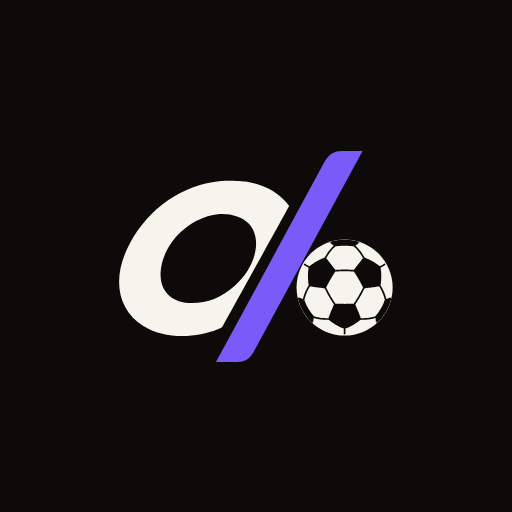
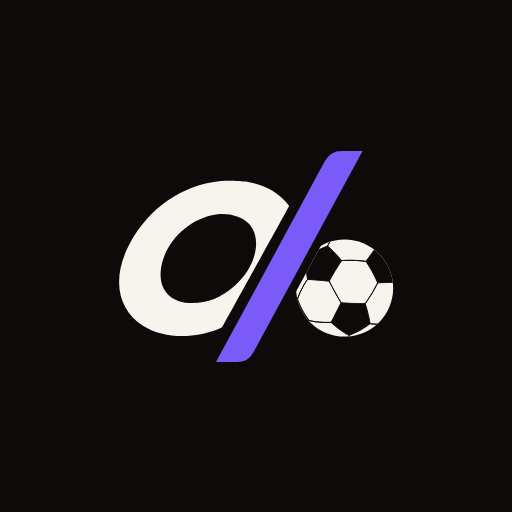
The ball as drawn: cut by the channel, panels where the drawing has them
Checked against the owner's drawing, the ball was wrong in two ways:
- It is not a full circle. The bar's dark channel cuts it in a straight
  line on its upper-left, parallel to the bar, just as it cuts the O. The
  cut now matches the drawing to the pixel at every height measured.
- The pattern was turned and too small. Rotation fitted to the drawing's
  panel positions (centre hexagon up and right of centre; panels
  upper-left, upper-right, bottom), panels at the drawing's size, and
  hairline seams that run to the edge.

The drawing's panels are transparent (alpha ~43/255), so they are drawn
in the ground colour, as holes. Regenerated every icon, the Google logo,
the footer mark and the link preview.

Changed region(s): [[0.5625, 0.4688, 0.7812, 0.6562]]

diff --git a/public/index.html b/public/index.html
@@ -172,7 +172,7 @@
       </div>
     </div>
     <div class="foot-brand">
-      <svg class="brand-symbol" viewBox="480 288 578 462" aria-hidden="true"><clipPath id="footc"><circle cx="946" cy="582" r="96"/></clipPath> <path d="M 699 368.969 C 622.149 376.503, 554.702 422.767, 516.720 494 C 480.503 561.921, 490.986 625.681, 543.799 658.704 C 582.904 683.156, 643.733 685.647, 693.718 664.844 C 700.296 662.106, 701.188 661.381, 703.774 656.670 C 705.335 653.826, 715.862 634.850, 727.168 614.500 C 738.475 594.150, 752.685 568.500, 758.748 557.500 C 772.399 532.732, 802.995 477.400, 815.977 454 C 821.317 444.375, 827.830 432.542, 830.449 427.704 L 835.212 418.908 829.308 411.704 C 812.558 391.265, 784.245 376.389, 751 370.558 C 739.966 368.623, 711.424 367.751, 699 368.969 M 689.303 435.990 C 632.321 444.052, 581.689 496.517, 578.412 550.896 C 576.120 588.928, 600.593 613, 641.549 613 C 672.131 613, 699.727 601.820, 726.044 578.770 C 769.671 540.559, 782.539 482.354, 753.729 453.544 C 739.739 439.554, 713.892 432.512, 689.303 435.990 " style="fill:var(--chalk)" fill-rule="evenodd"/> <path d="M 939.7 309.0 L 981.9 309.0 L 763.6 711.7 Q 753.1 731.0 731.1 731.0 L 688.9 731.0 L 907.2 328.3 Q 917.7 309.0 939.7 309.0 Z" style="fill:var(--floodlight)"/> <circle cx="946" cy="582" r="96" style="fill:var(--chalk)"/><polygon points="946.0,551.4 978.9,575.3 966.3,614.0 925.7,614.0 913.1,575.3" style="fill:var(--stand)"/></svg>
+      <svg class="brand-symbol" viewBox="480 288 578 462" aria-hidden="true"><clipPath id="footc"><circle cx="946" cy="583" r="97"/></clipPath><clipPath id="footk"><polygon points="916.3,466 1083,466 1083,700 789.4,700"/></clipPath> <path d="M 699 368.969 C 622.149 376.503, 554.702 422.767, 516.720 494 C 480.503 561.921, 490.986 625.681, 543.799 658.704 C 582.904 683.156, 643.733 685.647, 693.718 664.844 C 700.296 662.106, 701.188 661.381, 703.774 656.670 C 705.335 653.826, 715.862 634.850, 727.168 614.500 C 738.475 594.150, 752.685 568.500, 758.748 557.500 C 772.399 532.732, 802.995 477.400, 815.977 454 C 821.317 444.375, 827.830 432.542, 830.449 427.704 L 835.212 418.908 829.308 411.704 C 812.558 391.265, 784.245 376.389, 751 370.558 C 739.966 368.623, 711.424 367.751, 699 368.969 M 689.303 435.990 C 632.321 444.052, 581.689 496.517, 578.412 550.896 C 576.120 588.928, 600.593 613, 641.549 613 C 672.131 613, 699.727 601.820, 726.044 578.770 C 769.671 540.559, 782.539 482.354, 753.729 453.544 C 739.739 439.554, 713.892 432.512, 689.303 435.990 " style="fill:var(--chalk)" fill-rule="evenodd"/> <path d="M 939.7 309.0 L 981.9 309.0 L 763.6 711.7 Q 753.1 731.0 731.1 731.0 L 688.9 731.0 L 907.2 328.3 Q 917.7 309.0 939.7 309.0 Z" style="fill:var(--floodlight)"/> <g clip-path="url(#footk)"><circle cx="946" cy="583" r="97" style="fill:var(--chalk)"/><g clip-path="url(#footc)"><path d="M 1044.6 528.1 L 1040.9 524.3 L 1037.0 520.7 L 1032.8 517.1 L 1028.3 513.7 L 1023.6 510.5 L 1018.7 507.5 L 1013.7 504.7 L 1008.6 502.2 L 1006.7 504.9 L 1004.5 507.9 L 1002.2 511.1 L 999.7 514.5 L 997.0 518.1 L 994.3 521.9 L 991.4 525.7 L 988.5 529.7 L 991.8 534.6 L 995.1 539.8 L 998.3 545.1 L 1001.4 550.5 L 1004.3 556.0 L 1007.0 561.6 L 1009.6 567.1 L 1012.0 572.6 L 1016.9 572.4 L 1021.8 572.2 L 1026.5 572.0 L 1031.1 571.9 L 1035.4 571.8 L 1039.4 571.7 L 1043.2 571.7 L 1046.6 571.6 L 1047.3 566.0 L 1047.7 560.4 L 1047.8 554.8 L 1047.7 549.2 L 1047.3 543.7 L 1046.6 538.3 L 1045.7 533.1 Z M 871.9 565.7 L 876.7 566.0 L 881.8 566.4 L 887.1 566.8 L 892.5 567.2 L 898.1 567.7 L 903.9 568.2 L 909.6 568.8 L 915.4 569.3 L 918.2 564.0 L 921.2 558.6 L 924.3 553.3 L 927.4 548.0 L 930.6 542.8 L 933.8 537.7 L 937.0 532.8 L 940.2 528.1 L 936.6 523.9 L 933.0 519.8 L 929.3 515.8 L 925.7 512.0 L 922.1 508.4 L 918.7 505.0 L 915.3 501.8 L 912.0 498.9 L 906.4 501.1 L 900.8 503.5 L 895.2 506.2 L 889.8 509.0 L 884.5 512.1 L 879.4 515.3 L 874.5 518.7 L 869.8 522.2 L 869.4 527.1 L 869.2 532.3 L 869.1 537.6 L 869.3 543.1 L 869.6 548.7 L 870.2 554.4 L 871.0 560.1 Z M 954.8 677.5 L 960.2 675.4 L 965.6 673.0 L 971.1 670.4 L 976.5 667.6 L 981.9 664.5 L 987.1 661.2 L 992.1 657.8 L 997.0 654.2 L 996.2 649.8 L 995.3 645.1 L 994.2 640.2 L 993.0 635.1 L 991.7 629.9 L 990.3 624.6 L 988.8 619.3 L 987.2 613.9 L 981.4 614.0 L 975.5 614.0 L 969.5 613.9 L 963.4 613.7 L 957.2 613.5 L 951.0 613.1 L 944.9 612.7 L 938.9 612.3 L 936.3 617.5 L 933.7 622.7 L 931.1 627.9 L 928.5 632.9 L 926.0 637.9 L 923.5 642.7 L 921.1 647.2 L 918.8 651.6 L 923.1 655.4 L 927.5 659.2 L 932.1 662.8 L 936.6 666.2 L 941.2 669.4 L 945.8 672.4 L 950.3 675.1 Z M 867.8 670.2 L 868.0 668.2 L 868.5 665.9 L 869.2 663.4 L 870.0 660.7 L 871.1 657.7 L 872.3 654.6 L 873.8 651.3 L 875.4 647.9 L 871.8 643.1 L 868.3 638.1 L 865.0 632.8 L 861.9 627.4 L 859.0 621.9 L 856.4 616.3 L 854.0 610.6 L 851.9 605.0 L 848.2 604.7 L 844.8 604.3 L 841.6 603.8 L 838.6 603.3 L 836.0 602.8 L 833.6 602.1 L 831.5 601.5 L 829.8 600.8 L 830.0 606.0 L 830.5 611.3 L 831.3 616.6 L 832.4 621.7 L 833.8 626.8 L 835.5 631.8 L 837.4 636.5 L 839.6 641.1 L 842.2 645.3 L 845.1 649.4 L 848.3 653.4 L 851.8 657.2 L 855.5 660.8 L 859.4 664.2 L 863.5 667.4 Z" style="fill:var(--stand)"/></g></g></svg>
       <span class="wordmark" aria-label="offside.win">off<i class="wm-line"></i>side<span class="wm-tld">.win</span></span>
     </div>
     <div class="foot-stats" id="foot-stats"></div>

diff --git a/public/brand/README.md b/public/brand/README.md
@@ -4,6 +4,16 @@ An italic O, the offside line, and the ball beyond it. Drawn by the owner;
 traced from that drawing (the O and the line), with the ball rebuilt as a
 true football pattern so its seams are clean at every size.
 
+How the drawing is built, so it stays that way:
+- The bar cuts through a dark channel on both sides. The O stops 24.5
+  units short of the bar's left edge; the ball is cut in a straight line
+  19.5 units beyond its right edge. Both cuts run parallel to the bar.
+- The ball's dark panels are holes: they show the background, so they are
+  drawn in the ground colour, never a colour of their own.
+- The ball faces a white hexagon, slightly up and right of centre, with
+  its three dark panels upper-left (into the cut), upper-right (to the
+  edge) and at the bottom.
+
 | File | Use |
 |---|---|
 | `mark.svg` | the mark on its own, full detail |
